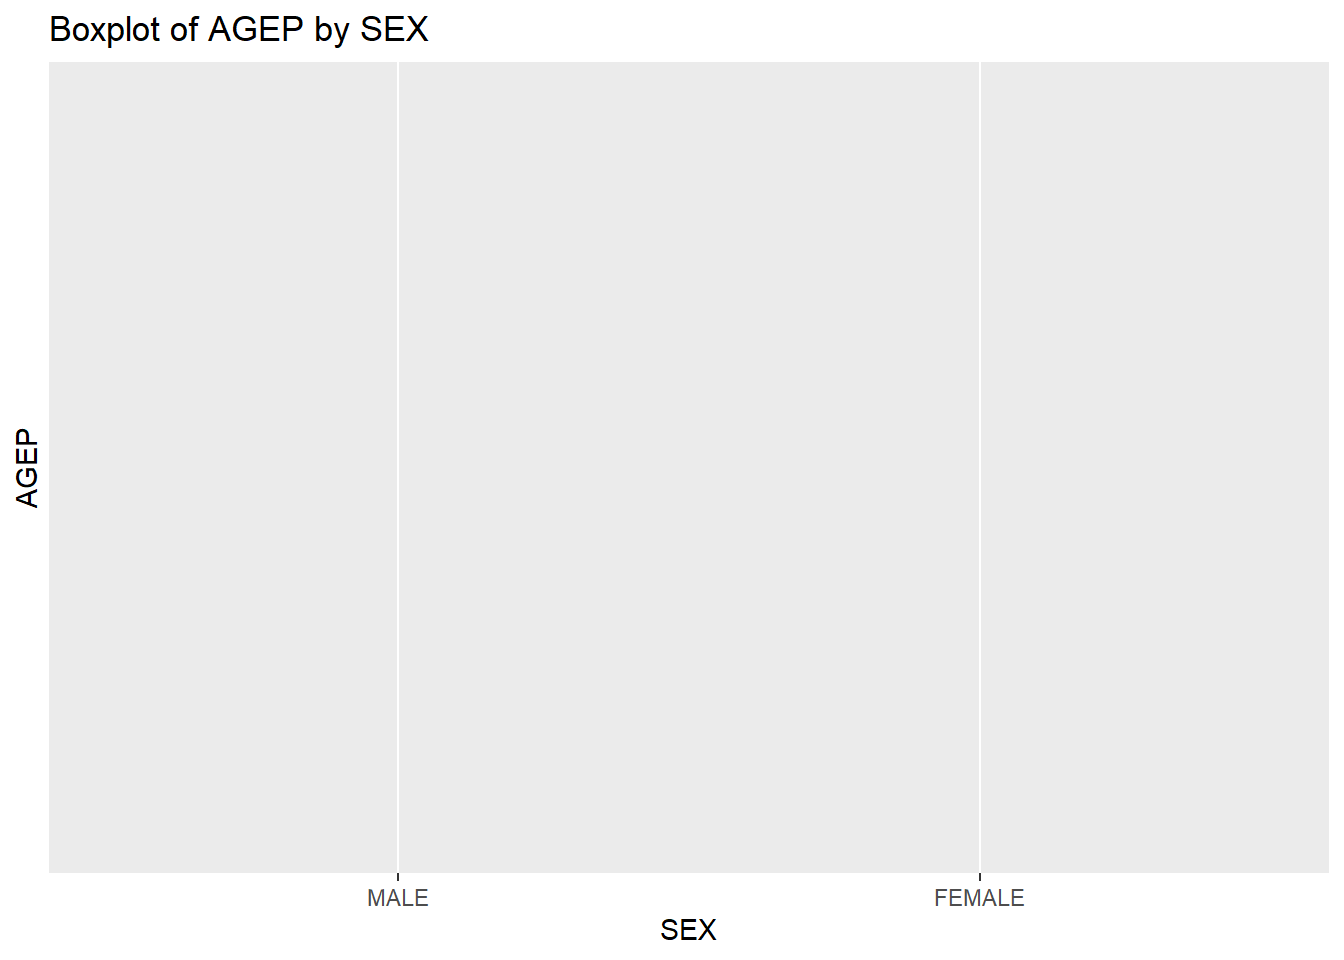
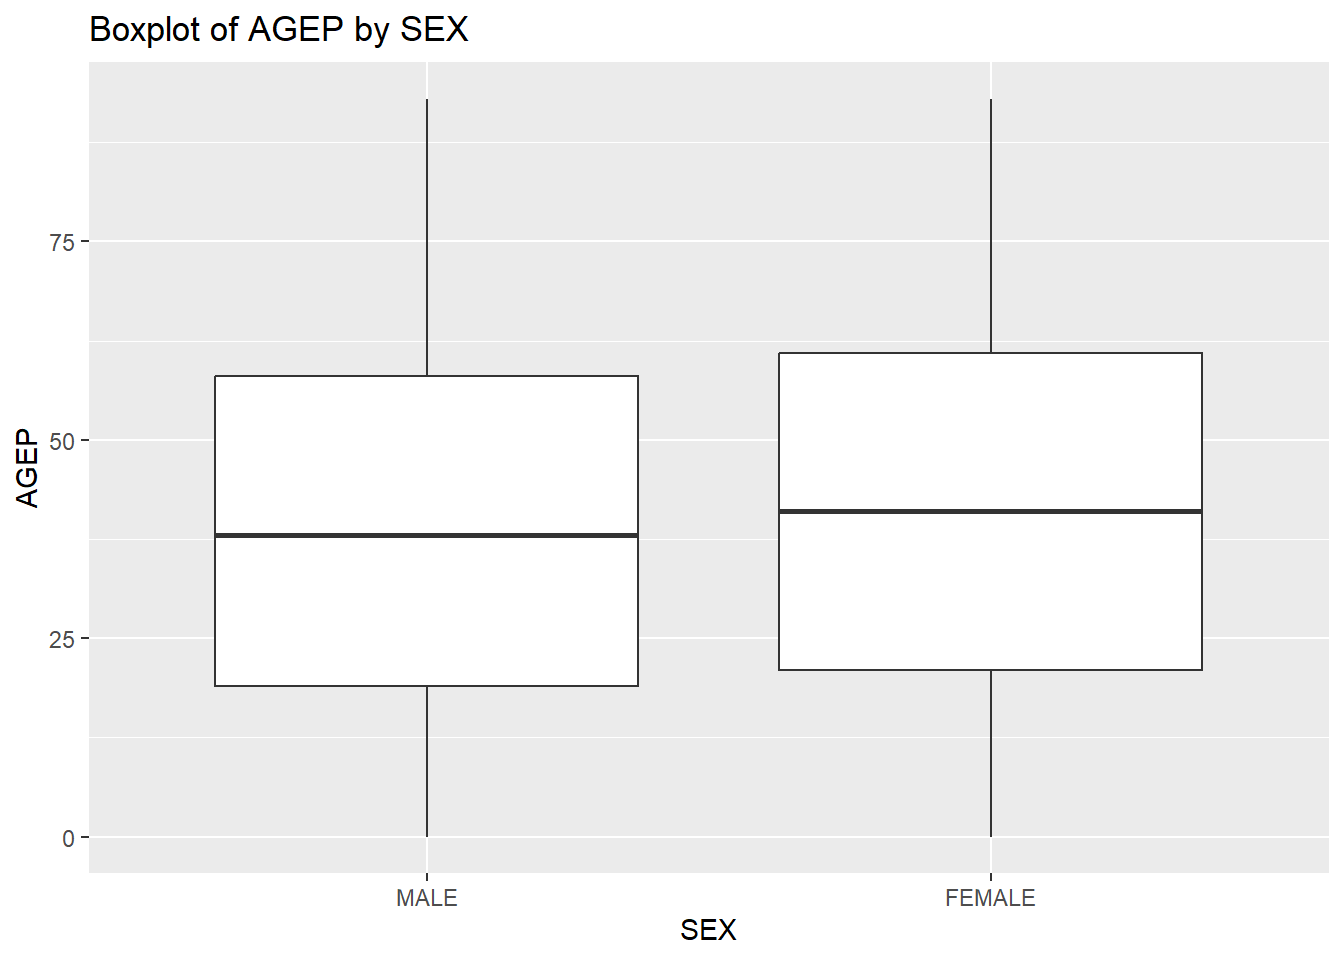
Fixed boxplots.

diff --git a/docs/GroupAMain.html b/docs/GroupAMain.html
@@ -465,22 +465,9 @@ from: ALL, REGION, DIVISION, STATE</code></pre>
 </div>
 <p>Filtered by state ‘01’ (Alabama)</p>
 <div class="cell">
-<div class="sourceCode cell-code" id="cb19"><pre class="sourceCode r code-with-copy"><code class="sourceCode r"><span id="cb19-1"><a href="#cb19-1" aria-hidden="true" tabindex="-1"></a>test</span></code><button title="Copy to Clipboard" class="code-copy-button"><i class="bi"></i></button></pre></div>
+<div class="sourceCode cell-code" id="cb19"><pre class="sourceCode r code-with-copy"><code class="sourceCode r"><span id="cb19-1"><a href="#cb19-1" aria-hidden="true" tabindex="-1"></a><span class="fu">unique</span>(test<span class="sc">$</span>state)</span></code><button title="Copy to Clipboard" class="code-copy-button"><i class="bi"></i></button></pre></div>
 <div class="cell-output cell-output-stdout">
-<pre><code># A tibble: 51,580 × 4
-    AGEP PWGTP SEX    state
-   &lt;dbl&gt; &lt;dbl&gt; &lt;fct&gt;  &lt;chr&gt;
- 1    58    38 MALE   01   
- 2    60   239 FEMALE 01   
- 3    61    67 MALE   01   
- 4    59    69 FEMALE 01   
- 5    43    71 FEMALE 01   
- 6    10    59 FEMALE 01   
- 7    73    61 MALE   01   
- 8    71    70 FEMALE 01   
- 9    68    22 MALE   01   
-10    80    20 FEMALE 01   
-# ℹ 51,570 more rows</code></pre>
+<pre><code>[1] "01"</code></pre>
 </div>
 </div>
 </section>
@@ -616,9 +603,8 @@ $SEX_counts
 <div class="cell">
 <div class="sourceCode cell-code" id="cb31"><pre class="sourceCode r code-with-copy"><code class="sourceCode r"><span id="cb31-1"><a href="#cb31-1" aria-hidden="true" tabindex="-1"></a><span class="fu">plot.census</span>(test, <span class="at">cat_var =</span> <span class="st">"SEX"</span>, <span class="at">num_var =</span> <span class="st">"AGEP"</span>)</span></code><button title="Copy to Clipboard" class="code-copy-button"><i class="bi"></i></button></pre></div>
 <div class="cell-output cell-output-stderr">
-<pre><code>Warning: Computation failed in `stat_boxplot()`.
-Caused by error in `loadNamespace()`:
-! namespace 'Matrix' 1.5-4 is already loaded, but &gt;= 1.6.0 is required</code></pre>
+<pre><code>Warning in .recacheSubclasses(def@className, def, env): undefined subclass
+"ndiMatrix" of class "replValueSp"; definition not updated</code></pre>
 </div>
 <div class="cell-output-display">
 <div>
